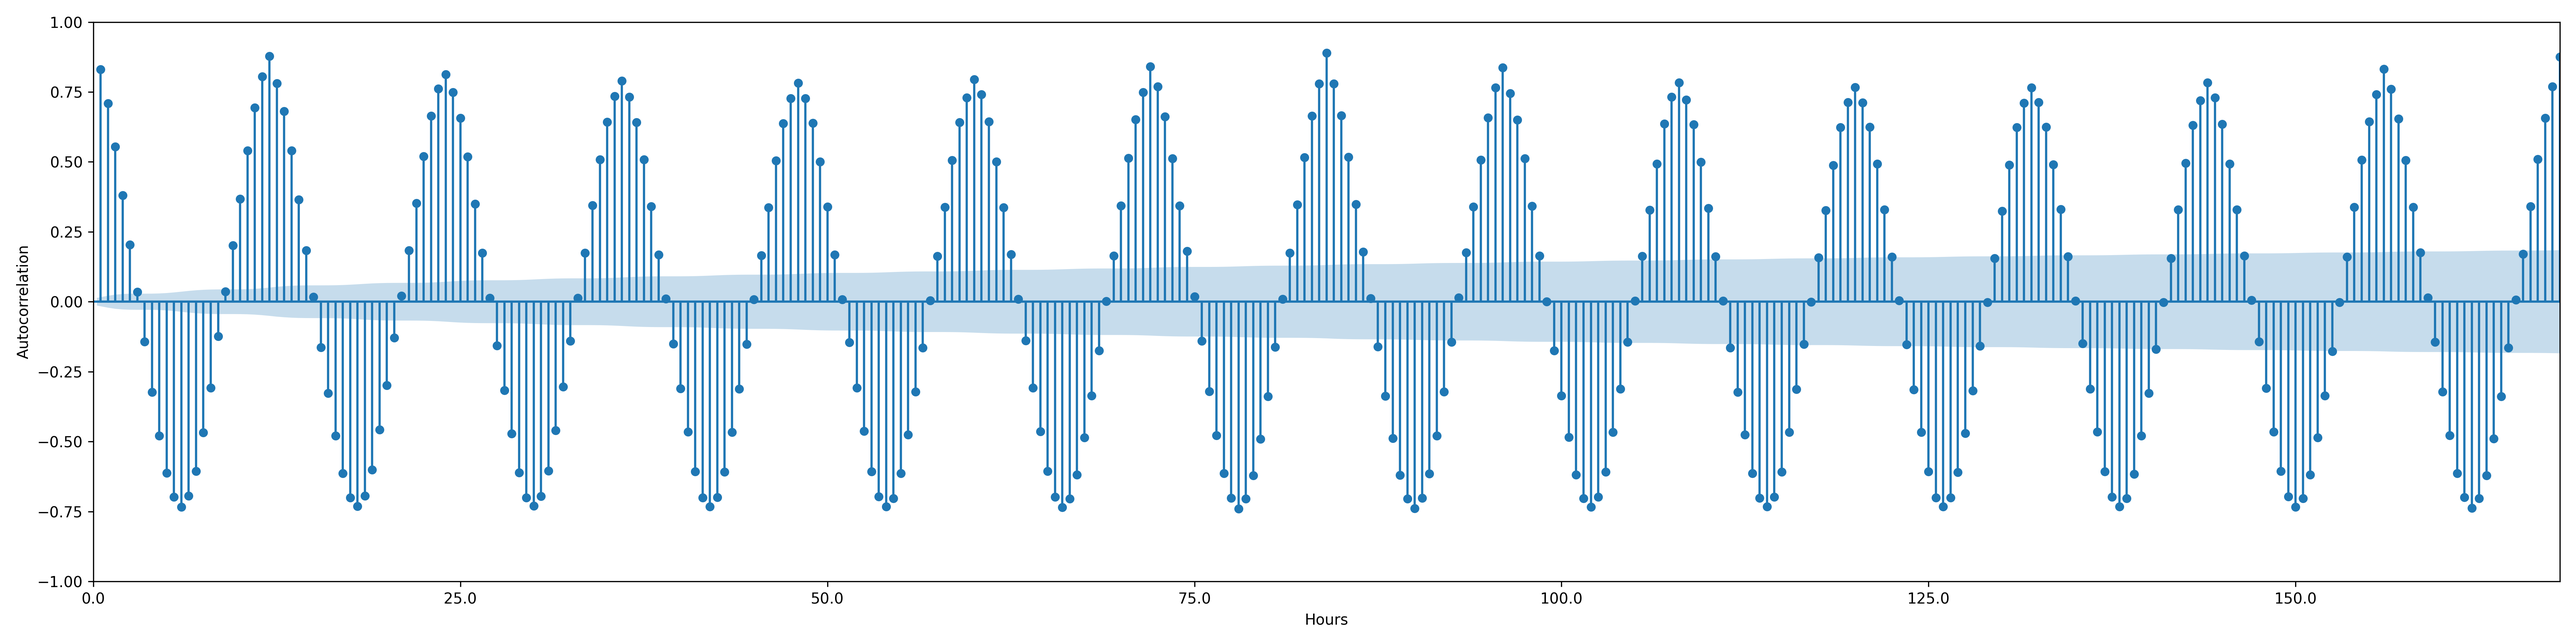
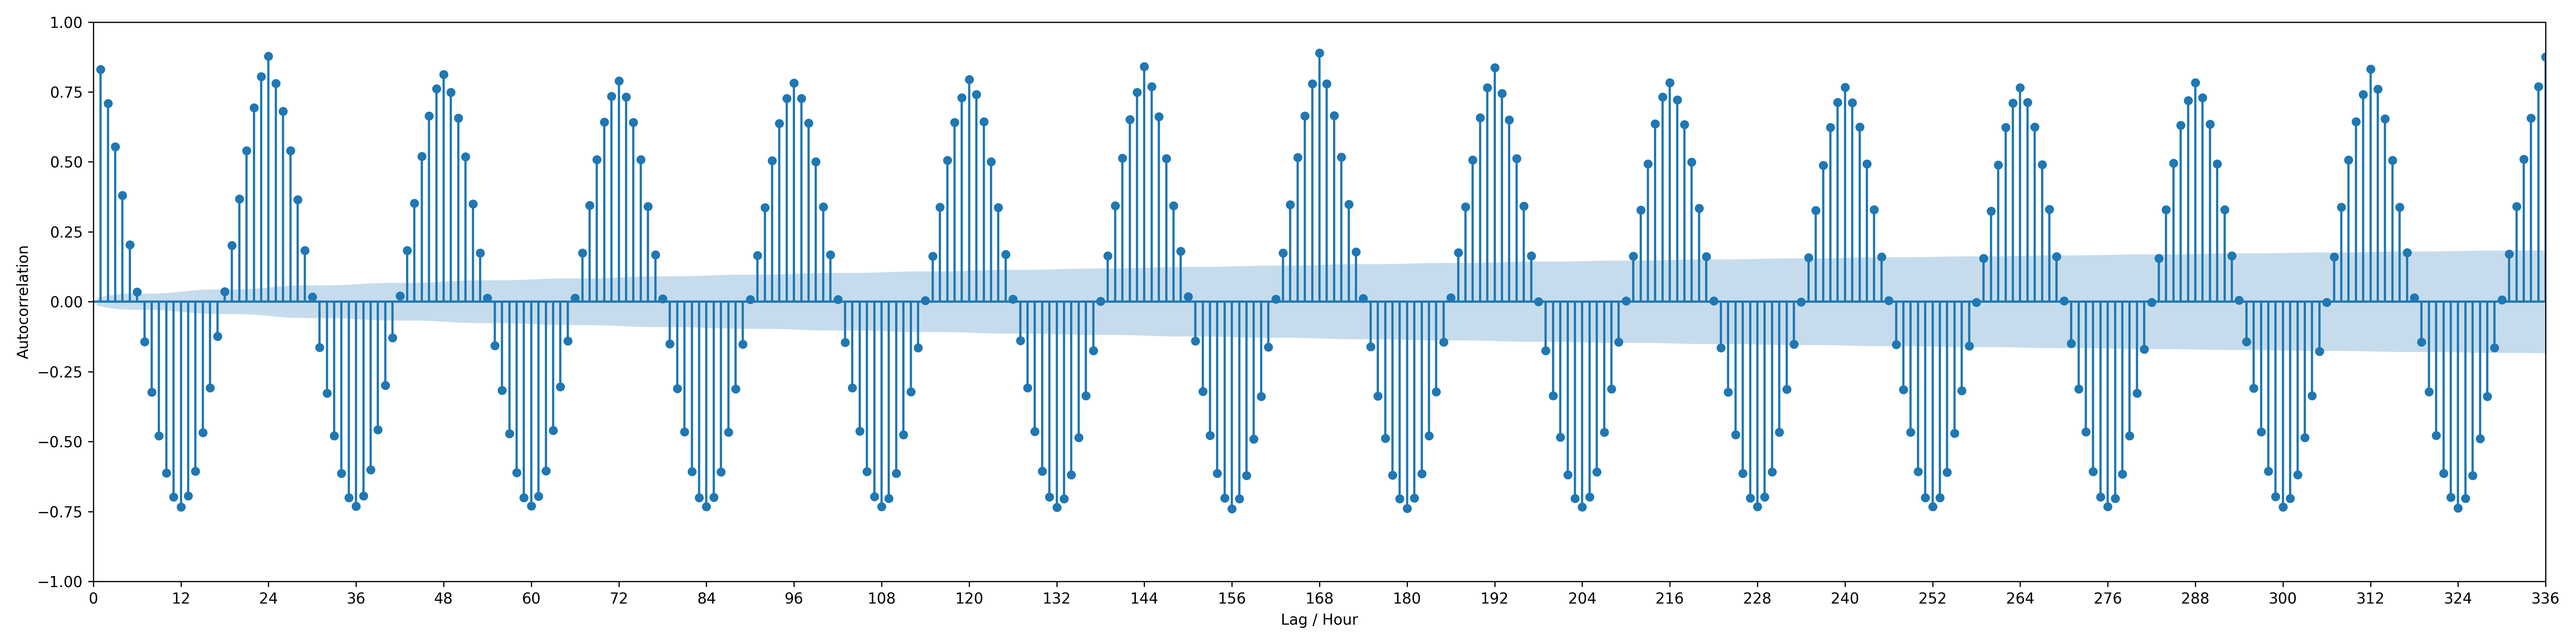
fixed x-axis on ACF and PACF

diff --git a/src/autocorrelation.py b/src/autocorrelation.py
@@ -20,15 +20,14 @@ def plot_autocorrelation(data, n_lags=24*7*2, file_name="norreport_1A_autocorrel
     fig, ax = plt.subplots(figsize=(24, 6)) 
     autocor_plot = plot_acf(data["y"], lags=n_lags, zero=False, ax=ax) # markersize = 1, linewidth = 0.5 (could be added)
 
-    # change axis tick values from lags to hours 
-    xticks = ax.get_xticks()
-    ax.set_xticks(xticks)
-    ax.set_xticklabels([int(xtick)/2 for xtick in xticks])
+    # set x ticks to every 12 hours
+    ax.set_xticks(range(0, n_lags+1, 12))
+    ax.set_xticklabels(range(0, n_lags+1, 12))
     ax.set_xlim(0, n_lags)
 
     # labels
     ax.set_title('')  
-    ax.set_xlabel('Hours')  
+    ax.set_xlabel('Lag / Hour')  
     ax.set_ylabel('Autocorrelation') 
 
     # rm whitespace
@@ -43,15 +42,14 @@ def plot_partial_autocorrelation(data, n_lags, file_name="norreport_1A_partial_a
     fig, ax = plt.subplots(figsize=(24, 6)) 
     pacf_plot = plot_pacf(data["y"], lags=n_lags, zero=False, ax=ax) # markersize = 1, linewidth = 0.5 (could be added)
 
-    # change axis tick values from lags to hours 
-    xticks = ax.get_xticks()
-    ax.set_xticks(xticks)
-    ax.set_xticklabels([int(xtick)/2 for xtick in xticks])
+    # set x ticks to every 6 hours
+    ax.set_xticks(range(0, n_lags+1, 6))
+    ax.set_xticklabels(range(0, n_lags+1, 6))
     ax.set_xlim(0, n_lags)
 
     # labels
     ax.set_title('')  
-    ax.set_xlabel('Hours')  
+    ax.set_xlabel('Lag / Hour')  
     ax.set_ylabel('Partial Autocorrelation') 
 
     # rm whitespace
